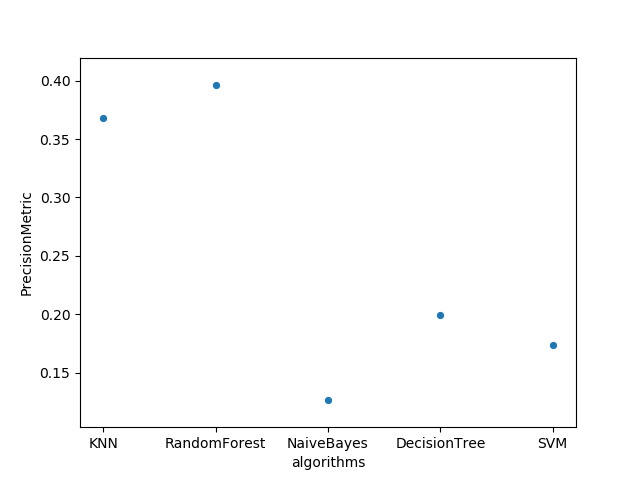
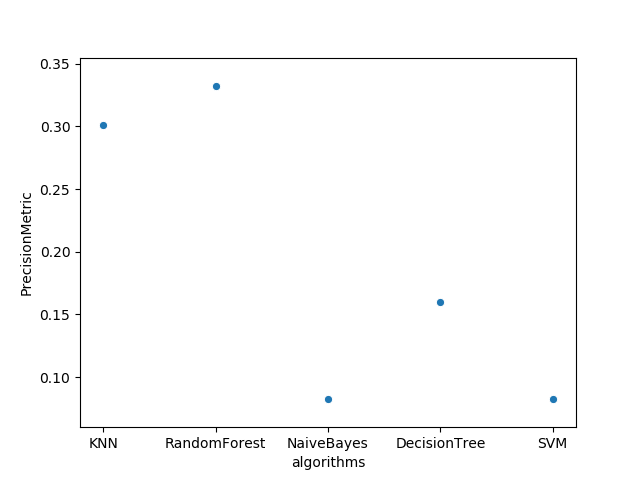
metryczki

diff --git a/src/evaluation/evaluationMetric/metrics/recall.py b/src/evaluation/evaluationMetric/metrics/recall.py
@@ -1,5 +1,5 @@
 from sklearn.metrics import recall_score, confusion_matrix
-
+import numpy as np
 
 class RecallMetric:
 
@@ -7,6 +7,6 @@ class RecallMetric:
     def calculate(y_prediction, data_map):
         # print(data_map['CLASSIFICATION_COLUMN_test'].values.flatten())
         # print(y_prediction.values.flatten())
-        score = recall_score(data_map['CLASSIFICATION_COLUMN_test'].values.flatten(), y_prediction.values.flatten(), average='weighted')
+        score = recall_score(data_map['CLASSIFICATION_COLUMN_test'].values.flatten(), y_prediction.values.flatten(), average=None, zero_division=0)
         # print('recall:', score)
-        return score
+        return np.average(score)

diff --git a/src/evaluation/evaluationMetric/metrics/precision.py b/src/evaluation/evaluationMetric/metrics/precision.py
@@ -1,5 +1,5 @@
 from sklearn.metrics import precision_score
-
+import numpy as np
 
 class PrecisionMetric:
 
@@ -7,6 +7,6 @@ class PrecisionMetric:
     def calculate(y_prediction, data_map):
         # print(data_map['CLASSIFICATION_COLUMN_test'].values.flatten())
         # print(y_prediction.values.flatten())
-        score = precision_score(data_map['CLASSIFICATION_COLUMN_test'].values.flatten(), y_prediction.values.flatten(), average='micro')
+        score = precision_score(data_map['CLASSIFICATION_COLUMN_test'].values.flatten(), y_prediction.values.flatten(), average=None, zero_division=0)
         # print('precision:', score)
-        return score
+        return np.average(score)

diff --git a/src/evaluation/evaluationMetric/metrics/specificity.py b/src/evaluation/evaluationMetric/metrics/specificity.py
@@ -1,5 +1,5 @@
 from sklearn.metrics import f1_score
-
+import numpy as np
 
 class SpecificityMetric:
 
@@ -7,6 +7,6 @@ class SpecificityMetric:
     def calculate(y_prediction, data_map):
         # print(data_map['CLASSIFICATION_COLUMN_test'].values.flatten())
         # print(y_prediction.values.flatten())
-        score = f1_score(data_map['CLASSIFICATION_COLUMN_test'].values.flatten(), y_prediction.values.flatten(), average='micro')
+        score = f1_score(data_map['CLASSIFICATION_COLUMN_test'].values.flatten(), y_prediction.values.flatten(), average=None, zero_division=0)
         # print('specifity:', score)
-        return score
+        return np.average(score)
